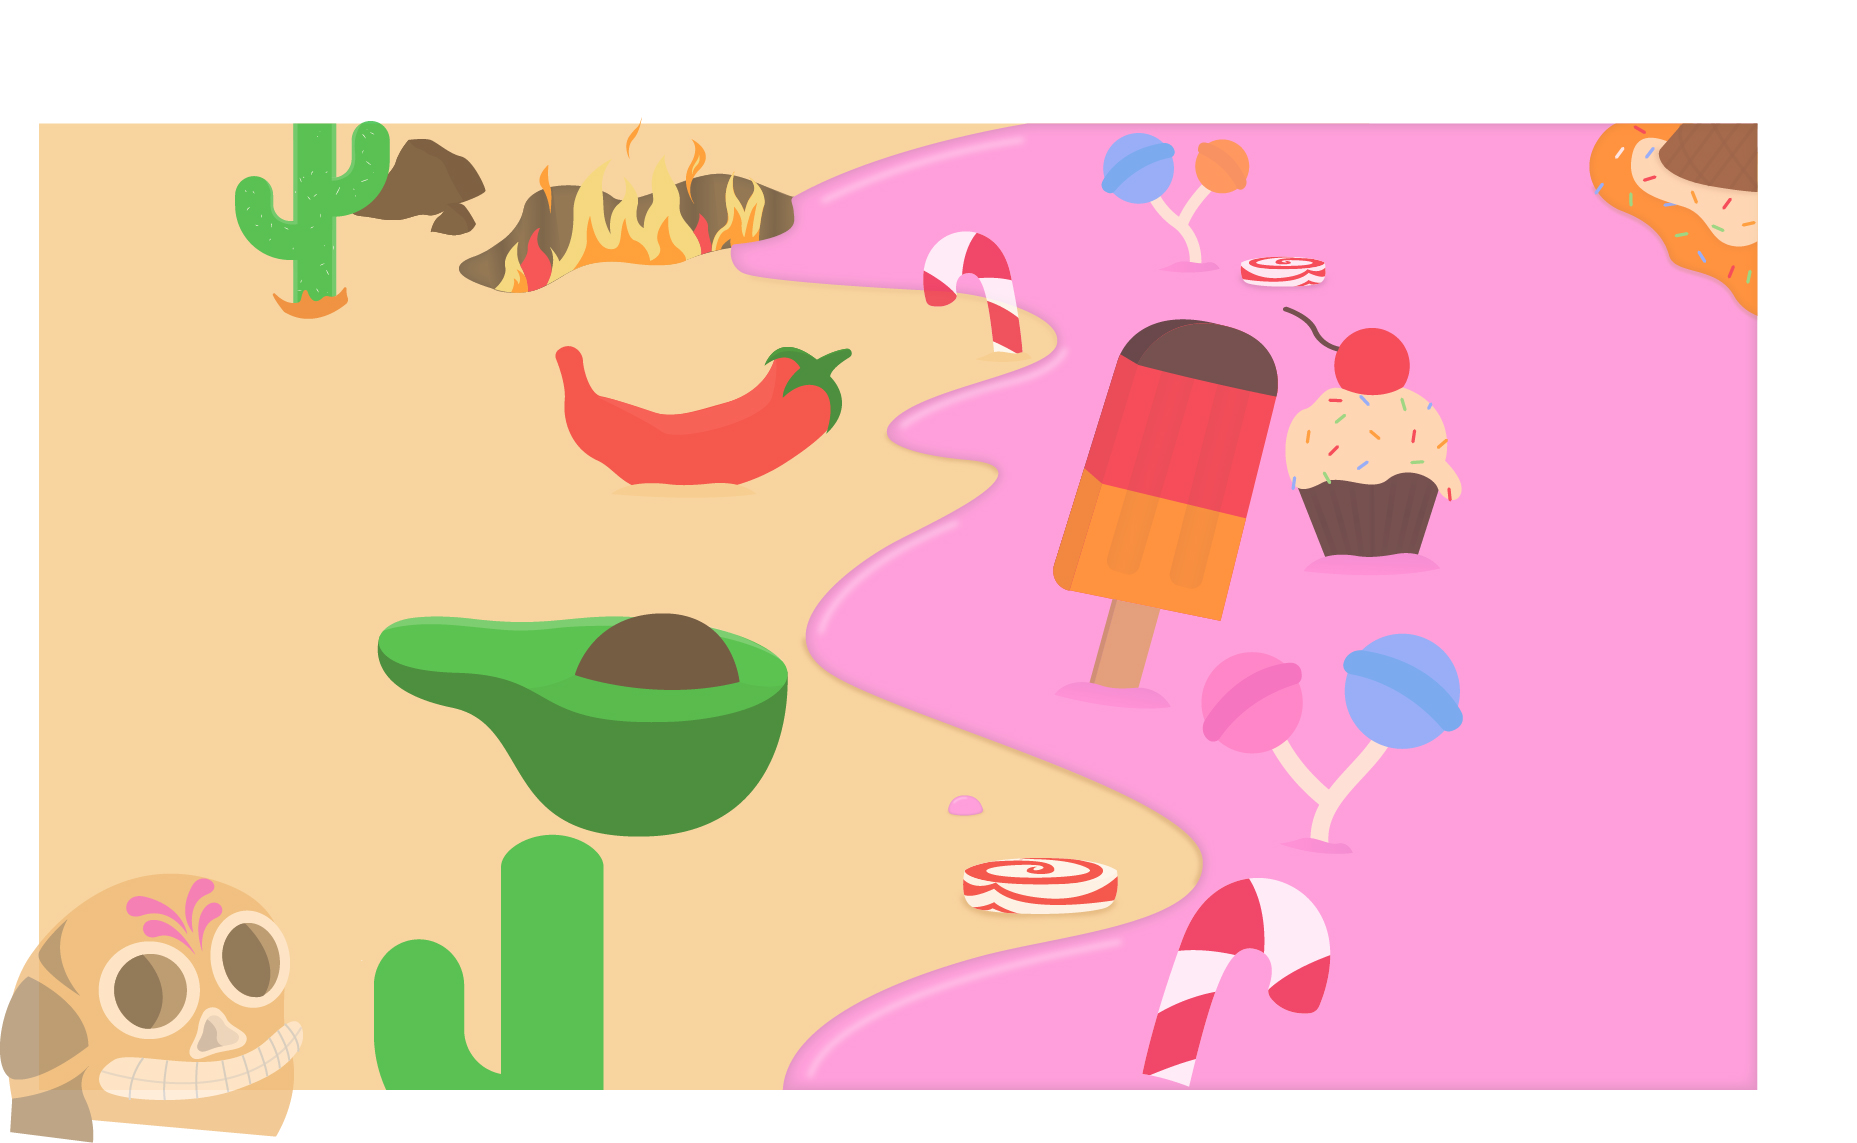
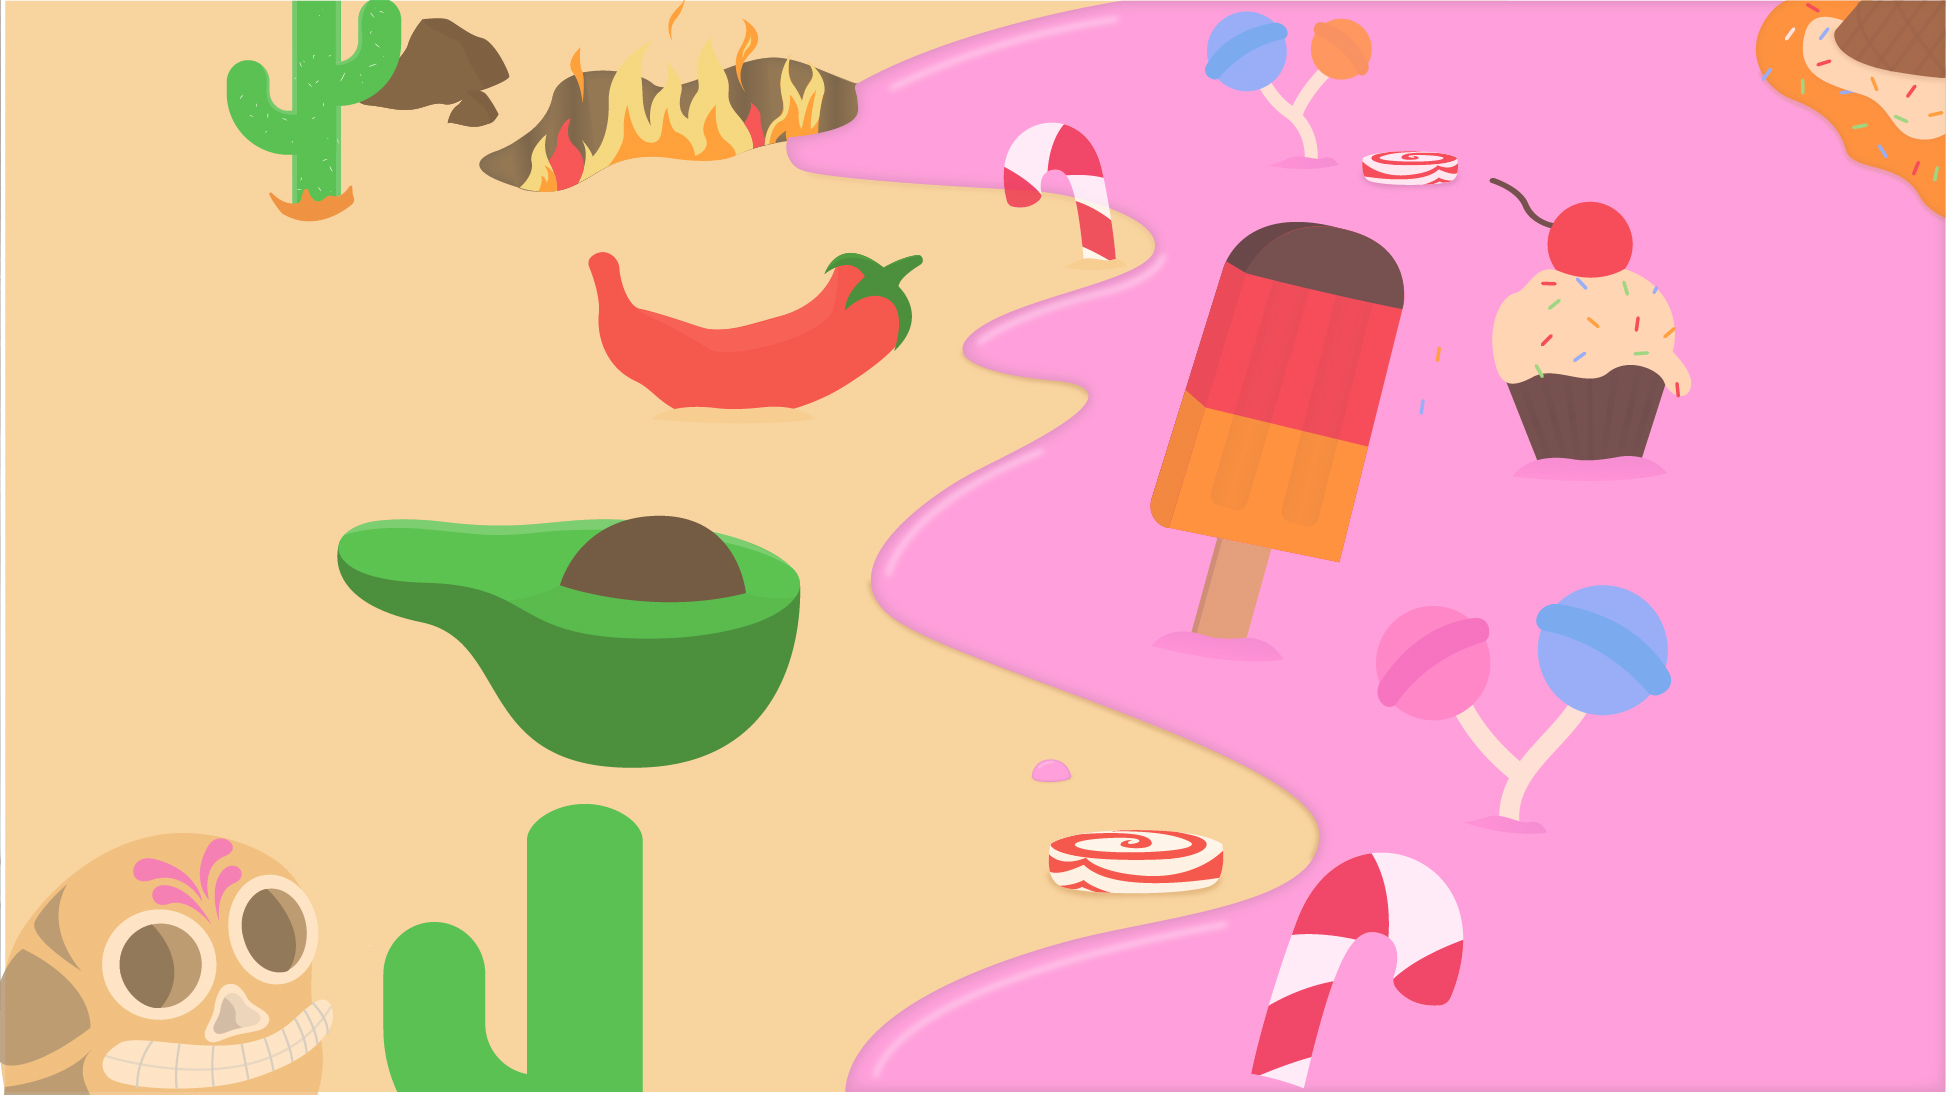
updated menu screen and playstate background visuals, bug fixes

diff --git a/classes/states/GameState.js b/classes/states/GameState.js
@@ -530,22 +530,13 @@ class GameState extends Phaser.State {
 
   freezePlayerOne() {
     this.game.arduinoPlugin.coldAirBool = true;
-    console.log(this.game.arduinoPlugin.coldAirBool);
-    console.log('froze to death');
     this.playerOneFreeze = true;
     this.pTwoSpecialAvailable = false;
     this.game.arduinoPlugin.blueLedBool = false;
     this.player.animations.play(`frozen`);
-    console.log(this.game.arduinoPlugin.blueLedBool);
-    //this.showFreezeTimer();
     this.icyWindSound.play();
     this.time.events.add(Phaser.Timer.SECOND * 1.5, this.fadeFreeze, this);
-    //this.time.events.add(Phaser.Timer.SECOND * 5, this.resetPTwoSpecialAttack, this);
   }
-
-  // showFreezeTimer() {
-  //
-  // }
 
   fadeFreeze() {
     this.game.arduinoPlugin.coldAirBool = false;

diff --git a/classes/states/Preload.js b/classes/states/Preload.js
@@ -24,7 +24,7 @@ class Preload extends Phaser.State {
       //this.load.bitmapFont(`roadfont`, `assets/road_fighter_font.png`, `assets/road_fighter_font.fnt`);
 
       this.load.image(`bg-menu`, `assets/images/bg-menu.jpg`);
-      this.load.image(`play`, `assets/images/play.jpg`);
+      this.load.image(`play`, `assets/images/play.png`);
       this.load.image(`bg2`, `assets/images/8.jpg`);
       this.load.image(`bullet`, `assets/images/taco.png`);
       this.load.image(`icecream-fire`, `assets/images/icecream-shoot.png`);

diff --git a/classes/states/Intro.js b/classes/states/Intro.js
@@ -10,7 +10,7 @@ class Intro extends Phaser.State {
     this.sea = this.add.tileSprite(0, 0, this.world.width, this.world.height, `bg-menu`);
   }
   setupPlay() {
-    this.start = this.add.button(this.game.width/2, 709, 'play', this.startClick, this);
+    this.start = this.add.button(this.game.width/2, 580, 'play', this.startClick, this);
     this.start.anchor.setTo(0.5,0.5);
   }
   startClick() {
